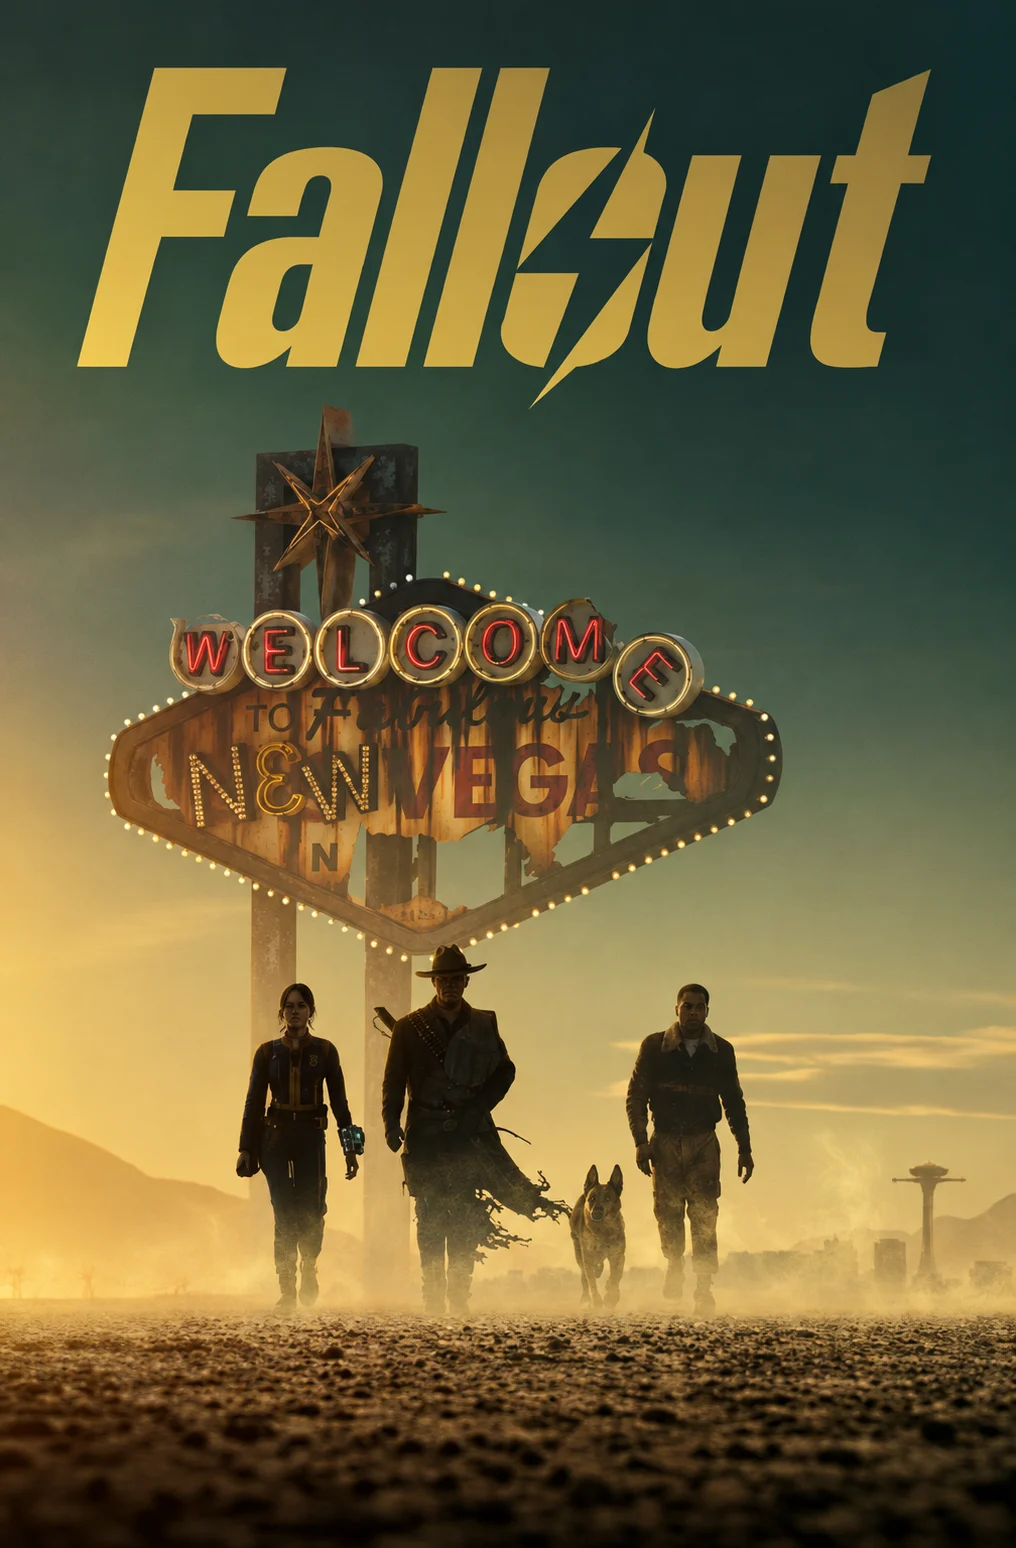
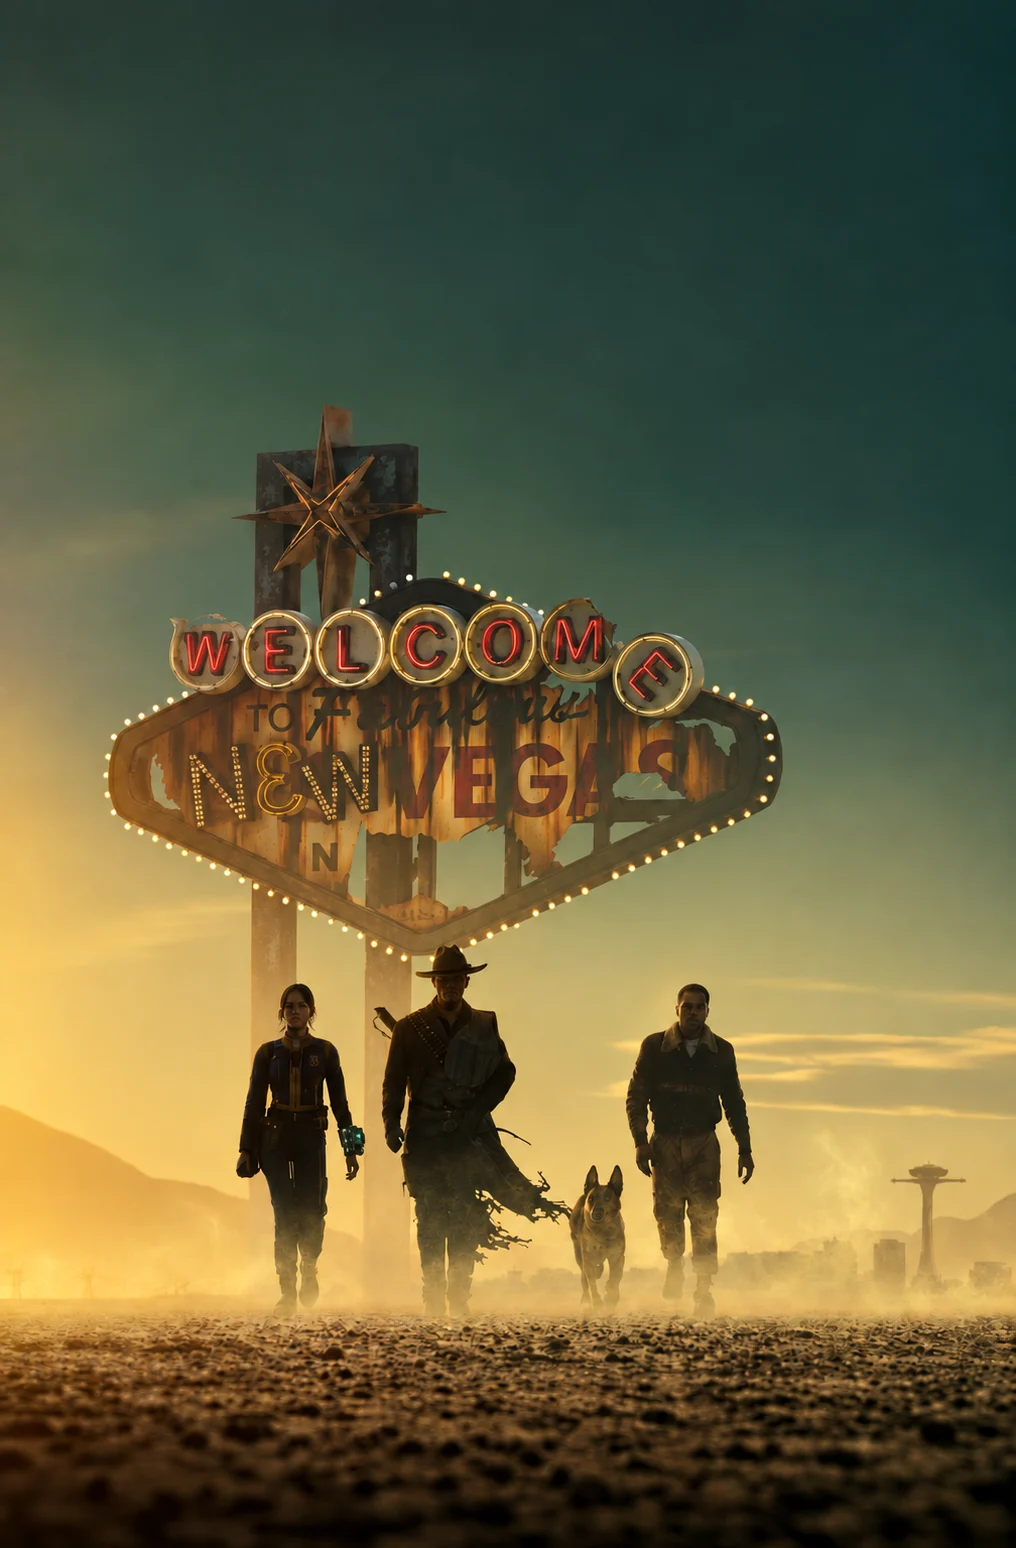
design: remove Fallout title and emphasize Pip-Boy green

diff --git a/src/clan-themes.css b/src/clan-themes.css
@@ -51,3 +51,20 @@ body[data-community-theme="fallout"] .community-floater{width:calc(var(--size)*.
 .nuka-cap{display:block;position:relative;aspect-ratio:1;overflow:hidden;clip-path:circle(48% at 50% 50%);filter:drop-shadow(1px 3px 2px #0008)}
 .nuka-cap img{position:absolute;width:138%;max-width:none;height:auto;left:-13%;top:-3%;pointer-events:none}
 @media(max-width:700px){body[data-community-theme="fallout"] .community-floater{width:calc(var(--size)*.45);opacity:.65}}
+/* Pip-Boy phosphor: readable green controls and numbers on a dark CRT surface. */
+body[data-community-theme="fallout"]{--primary:#6dff83;--primary-foreground:#082013;--theme-highlight:#6dff83;--ring:#6dff83;--border:#497d48;--input:#497d48;--theme-ink:#c1f8bb;--theme-muted:#9dba96;--secondary:#183823;--secondary-foreground:#c1f8bb;--accent:#224b2d;--accent-foreground:#c1f8bb}
+body[data-community-theme="fallout"] .community-banner{background:linear-gradient(95deg,#102b1bf5,#07190edf),url('../public/images/potato-pip-boy.png') right center/cover;border-color:#5c9e52;box-shadow:inset 0 0 0 4px #28382a,inset 0 0 45px #51ff6b0d,0 12px 45px #0009}
+body[data-community-theme="fallout"] .community-banner h2{color:#7cff8a;text-shadow:0 0 12px #60ff733b}
+body[data-community-theme="fallout"] .community-banner p{color:#b1d5a6}
+body[data-community-theme="fallout"] :is(.community-eyebrow,.community-stamp,.community-decoration){color:#79ff8b}
+body[data-community-theme="fallout"] :is(.panel,.summary article,.mount-merge-calculator){border-color:#527948;box-shadow:inset 0 0 0 3px #263a25,inset 0 0 40px #0008,0 8px 24px #0008}
+body[data-community-theme="fallout"] :is(.panel-heading,.merge-calculator-heading){background:#102a19;border-bottom:1px solid #63ab55;color:#81ff8e}
+body[data-community-theme="fallout"] :is(.summary-number,.resource-amount,.merge-calculator-result strong){color:#7dff8b;font-variant-numeric:tabular-nums;text-shadow:0 0 9px #63ff7a42}
+body[data-community-theme="fallout"] :is(.summary-content strong,.calculator-result-label,.calculator-step-number){color:#7dff8b}
+body[data-community-theme="fallout"] .submit{background:#78f88a;color:#082313;border:1px solid #a4ffae;box-shadow:0 3px 0 #275d30,0 0 14px #68ff7924}
+body[data-community-theme="fallout"] :is(.quiet,.capture-paste,.save-mode button,.resource-sort button){background:#122c1b;color:#bdfbc2;border-color:#51794b}
+body[data-community-theme="fallout"] :is(.save-mode button.active,.resource-sort button.active,button[aria-pressed="true"]){background:#285d32;color:#bfffc7;border-color:#7aff8c;box-shadow:inset 0 -2px #7aff8c}
+body[data-community-theme="fallout"] :is(.upload,.ticket-import-button){background:#102b1b;border-color:#75ea7f;color:#c0f8bf}
+body[data-community-theme="fallout"] :is(.upload strong,input,select,textarea){color:#b7ffc0!important}
+body[data-community-theme="fallout"] :is(button,a){transition:background-color .15s,border-color .15s}
+body[data-community-theme="fallout"] button:not(:disabled):hover{border-color:#a0ffac}

diff --git a/docs/POTATO-THEME.md b/docs/POTATO-THEME.md
@@ -1,1 +1,1 @@
-POTATO theme updated 2026-11-05. Supplied Vault Boy, wasteland, Pip-Boy artwork scoped to Fallout theme. Follow-up: removed Prime and release-date footer from wasteland background; optimized to WebP. Replaced decorative cap drawings with owner-supplied Nuka-Cola cap image, displayed at about half the previous size (17–35px desktop; 14–31px mobile). Decorative clipping excludes the white corners and lower reverse-side cap. TypeScript check and production build passed. No clan data, credentials, tickets or backend changed.
+POTATO theme 2026-11-05: owner-supplied Vault Boy, Pip-Boy, and Nuka-Cola cap artwork. Wasteland background has Prime/release-date and Fallout title removed via image editing, delivered as WebP. Floating caps use supplied artwork at 17–35px desktop and 14–31px mobile. Pip-Boy phosphor green applied to banner, primary buttons, focus indicators, summary numbers, calculator numbers, and panel borders; body copy remains pale green for readability. All styles scoped to Fallout theme; no member data, passwords, tickets, settings or backend changed. TypeScript and final Vite production build passed.
